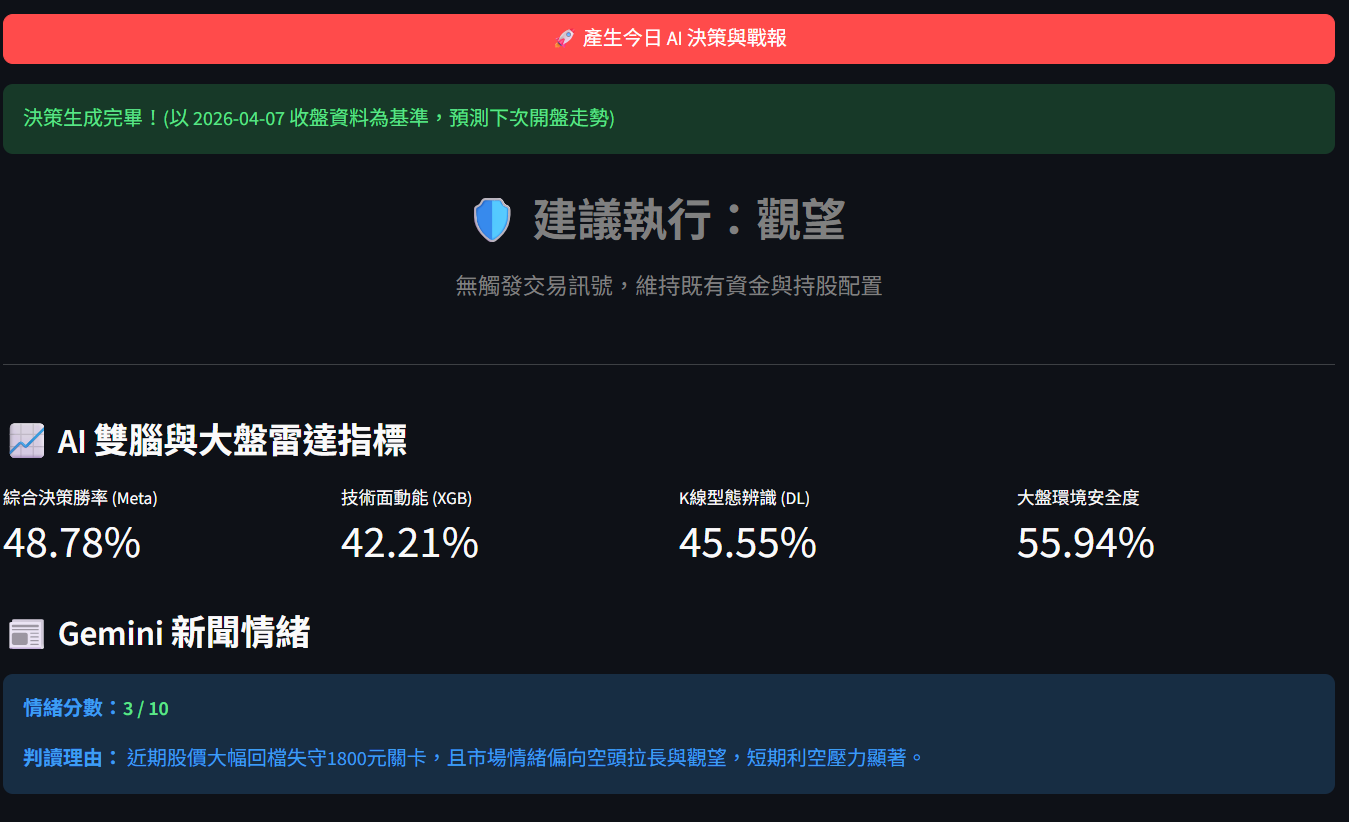
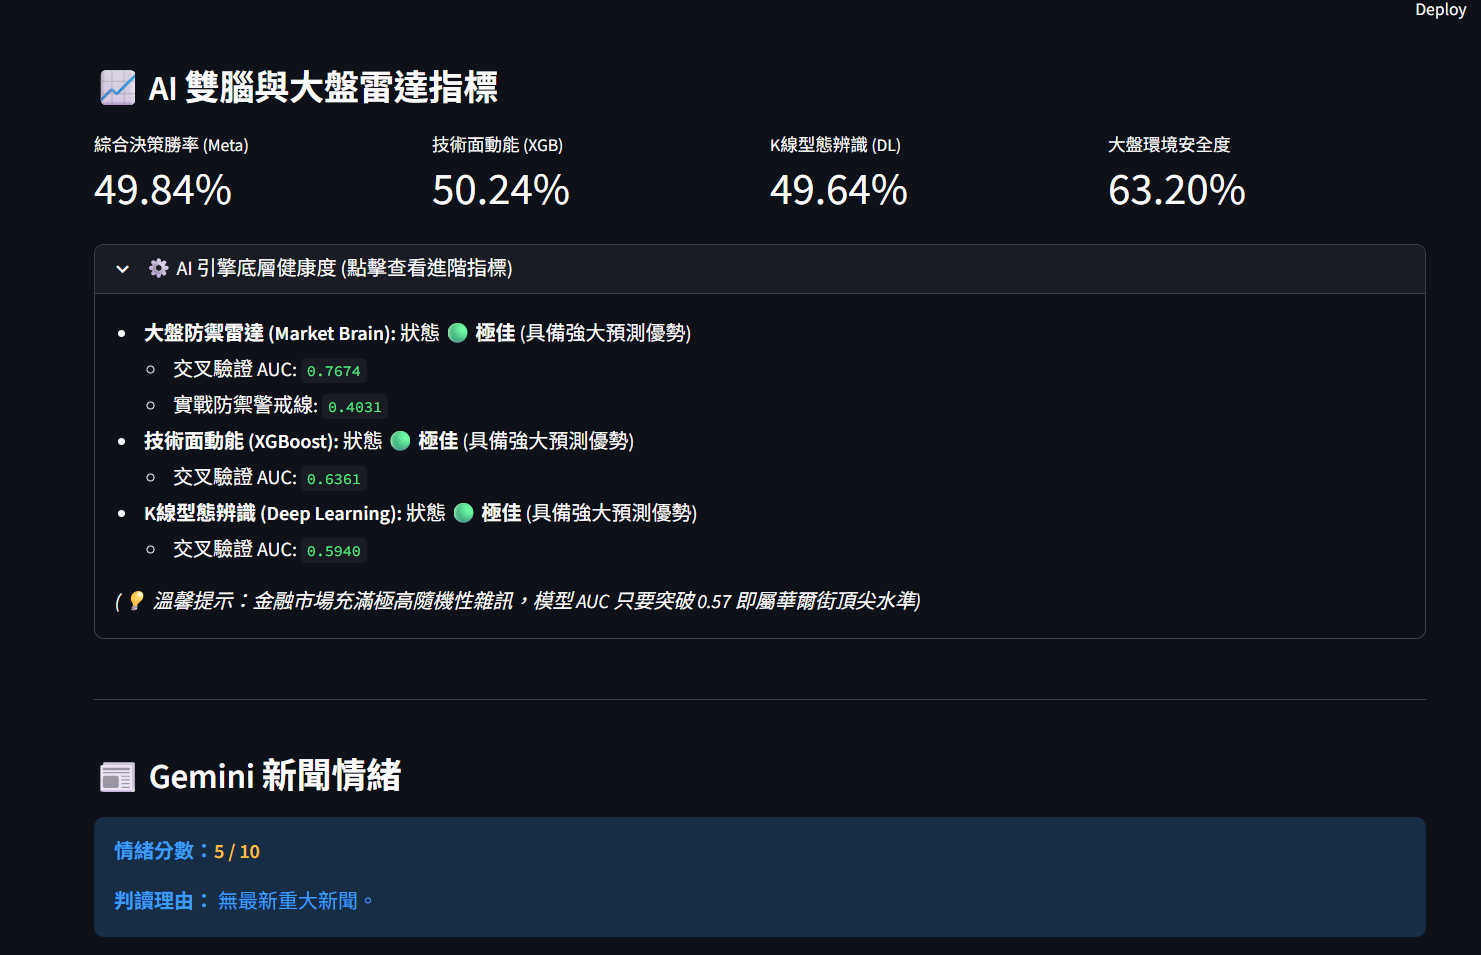
UI升級

diff --git a/README.md b/README.md
@@ -148,7 +148,7 @@
 
 ## ⚡ 今日行動指令：透視 AI 的決策大腦
 
-當您點擊「預測今日走勢」時，系統會吐出四顆大腦的決策分數：
+當您點擊「預測今日走勢」時，系統會吐出四顆大腦的決策分數，並附帶底層模型的健康度診斷：
 
 * **1. 綜合決策勝率 (Meta - 總指揮): `[核心決策依據]`**
   * **> 60%**：趨勢明確向上，強烈建議買進或加碼。
@@ -164,8 +164,10 @@
   * **1~3 分：** 充滿恐慌或利空頻傳，進場風險高。
   * **4~6 分：** 消息面平淡，無明顯利多利空。
   * **7~10 分：** 釋出大利多或市場極度樂觀。
+* **6. ⚙ AI 引擎底層健康度 (白盒化進階資訊):**
+  * 系統內建模型診斷面板，自動擷取各模型在訓練階段的 **全局盲測準確度 (Global OOF AUC)**，並將複雜的數學指標翻譯為直觀的紅綠燈號（🟢 極佳 / 🟡 正常 / 🔴 重新適應中），確保您隨時掌握神經網路的健康狀態。面板同時會揭露大盤雷達的「實戰動態防禦警戒線」，讓 AI 的底層風控邏輯完全透明化。
 
-> 💡 **總結來說：** 一個完美的 **「強力買進 (Strong Buy)」** 訊號，通常會伴隨著：`XGB 與 DL 雙雙突破 60%` + `大盤安全度 > 50%` + `新聞情緒 >= 6`，最後由 Meta 總指揮拍板定案！
+> 💡 **總結來說：** 一個完美的 **「強力買進 (Strong Buy)」** 訊號，通常會伴隨著：`XGB 與 DL 雙雙突破 60%` + `大盤安全度 > 50%` + `新聞情緒 >= 6` + `AI 健康度亮綠燈`，最後由 Meta 總指揮拍板定案！
 
 ![今日決策展示圖1](img/action_instructions1.png)
 ![今日決策展示圖2](img/action_instructions2.png)
